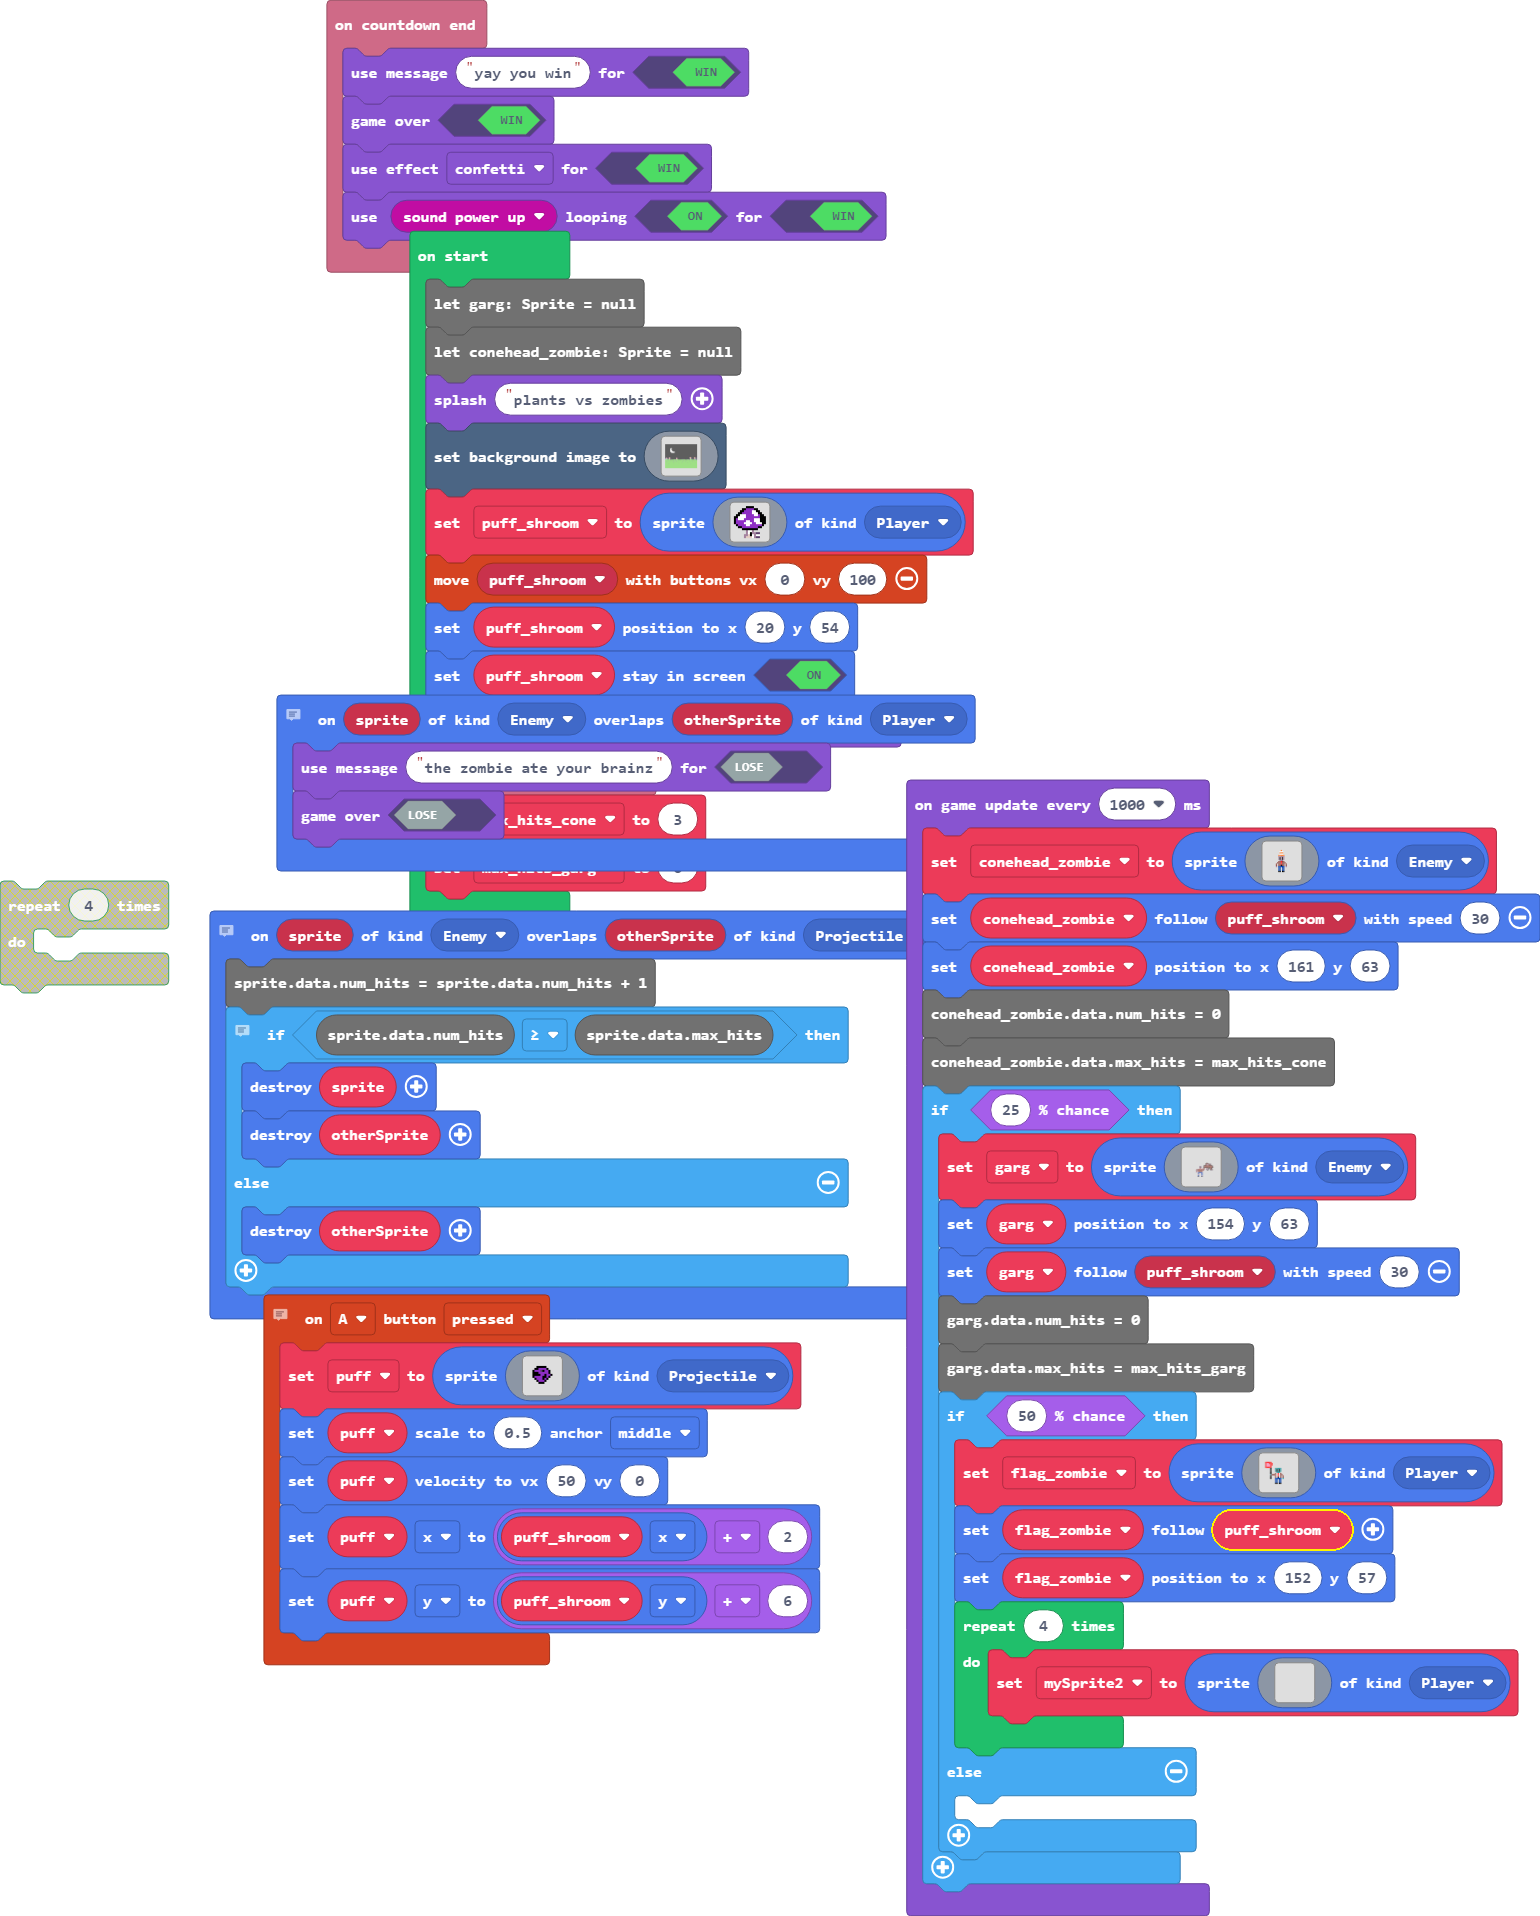
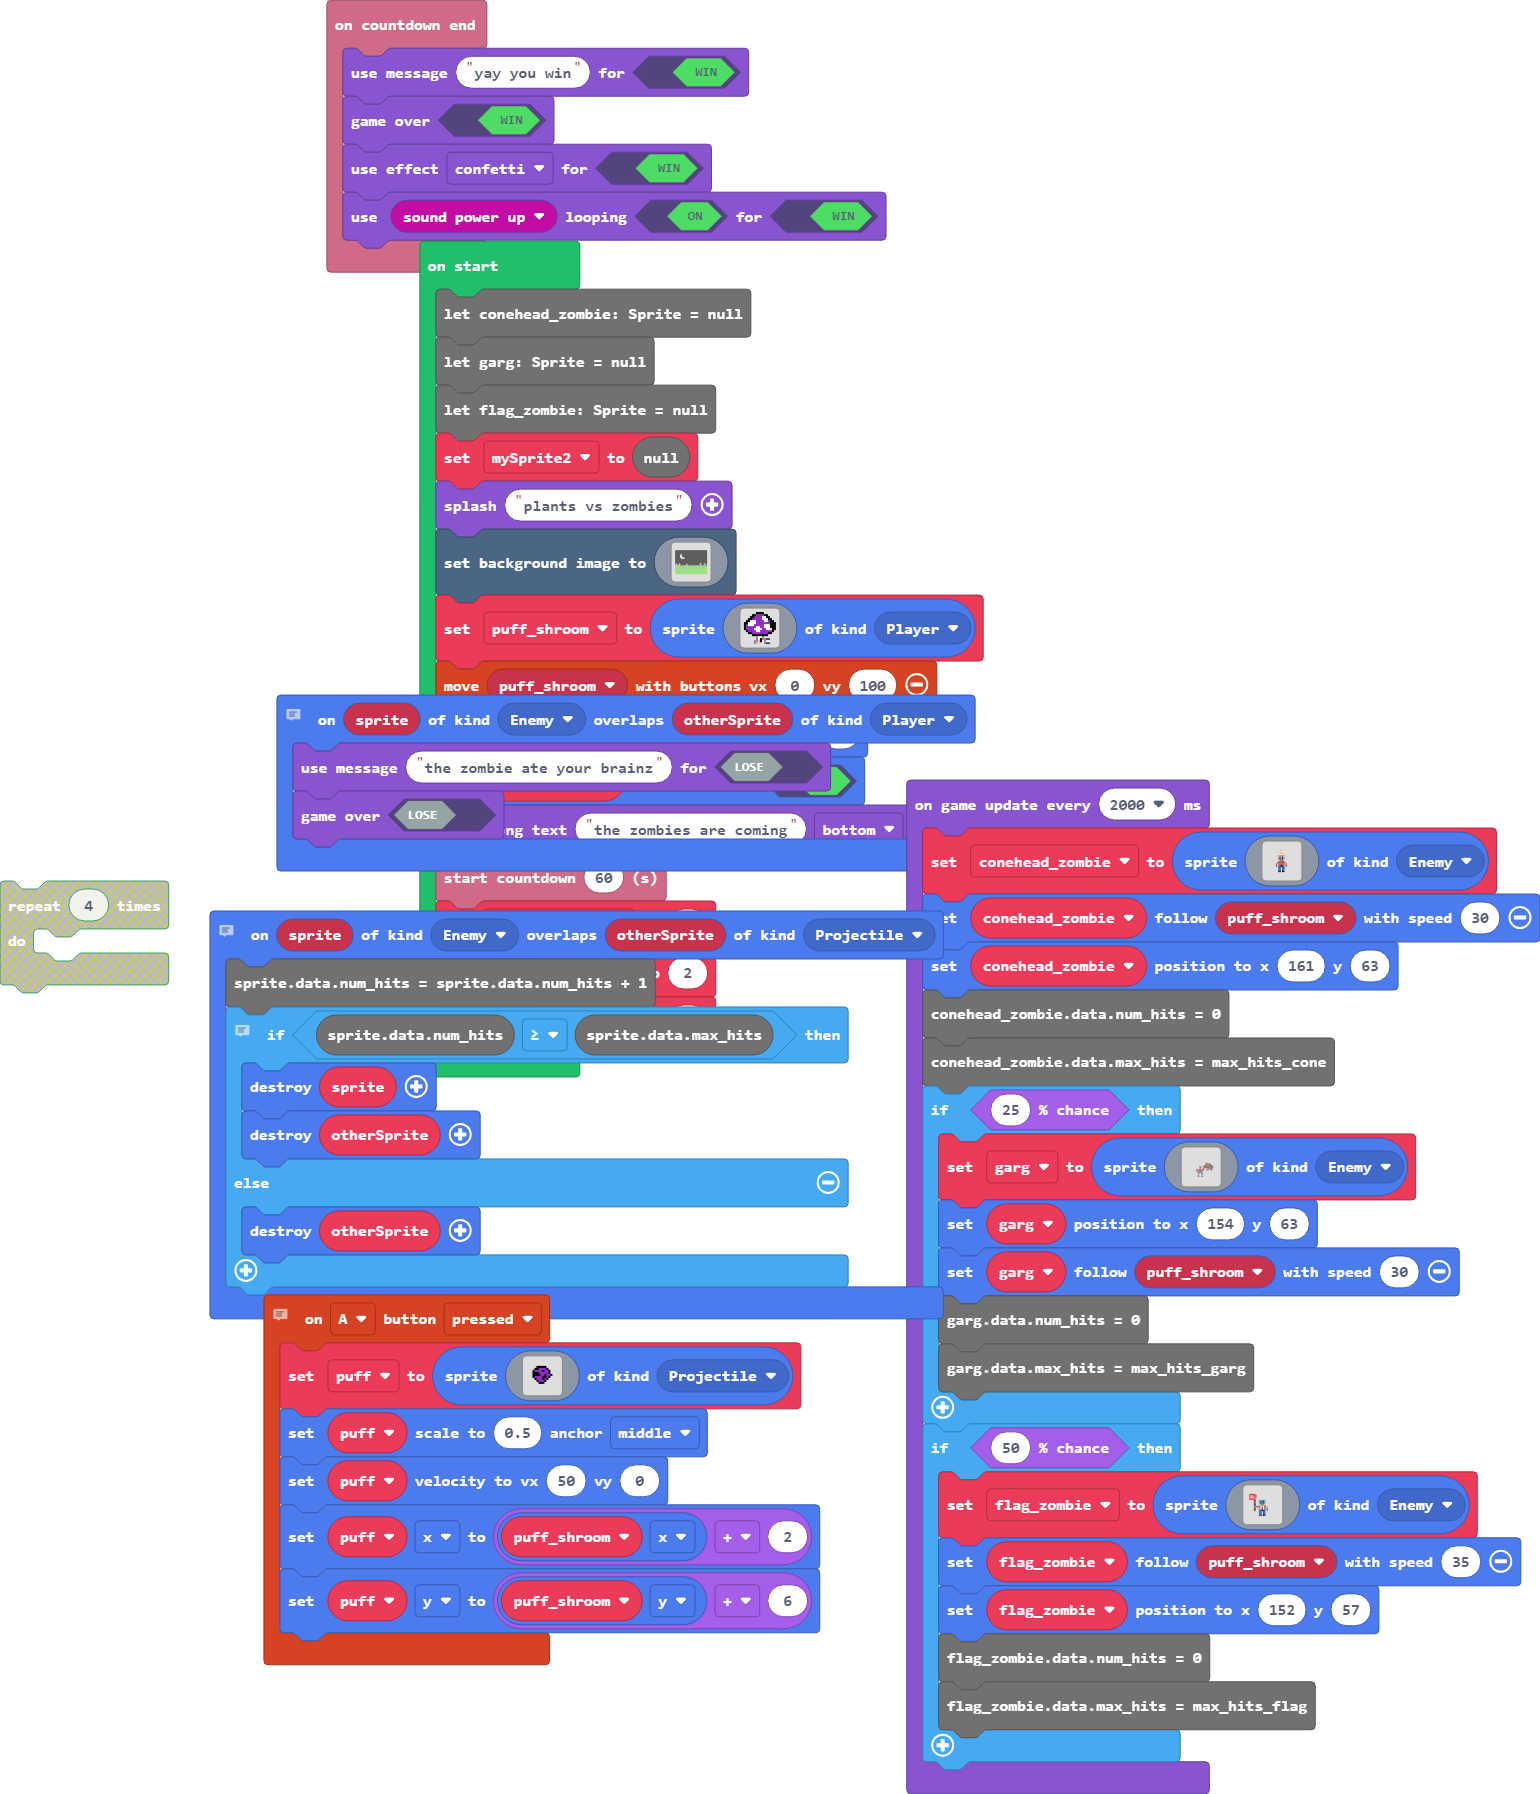
fixed flag z

diff --git a/main.ts b/main.ts
@@ -45,12 +45,12 @@ sprites.onOverlap(SpriteKind.Enemy, SpriteKind.Player, function (sprite, otherSp
     game.setGameOverMessage(false, "the zombie ate your brainz")
     game.gameOver(false)
 })
-let mySprite2: Sprite = null
-let flag_zombie: Sprite = null
 let puff: Sprite = null
 let puff_shroom: Sprite = null
-let garg: Sprite = null
 let conehead_zombie: Sprite = null
+let garg: Sprite = null
+let flag_zombie: Sprite = null
+let mySprite2 = null
 game.splash("plants vs zombies")
 scene.setBackgroundImage(img`
     ffffffffffffffffffffffffffffffffffffffffffffffffffffffffffffffffffffffffffffffffffffffffffffffffffffffffffffffffffffffffffffffffffffffffffffffffffffffffffffffff
@@ -198,8 +198,9 @@ puff_shroom.setStayInScreen(true)
 game.showLongText("the zombies are coming", DialogLayout.Bottom)
 info.startCountdown(60)
 let max_hits_cone = 3
+let max_hits_flag = 2
 let max_hits_garg = 6
-game.onUpdateInterval(1000, function () {
+game.onUpdateInterval(2000, function () {
     conehead_zombie = sprites.create(img`
         ..........................
         ..........................
@@ -339,32 +340,12 @@ if (Math.percentChance(25)) {
         garg.follow(puff_shroom, 30)
         garg.data.num_hits = 0
 garg.data.max_hits = max_hits_garg
-if (Math.percentChance(50)) {
-            flag_zombie = sprites.create(assets.image`myImage`, SpriteKind.Player)
-            flag_zombie.follow(puff_shroom)
-            flag_zombie.setPosition(152, 57)
-            for (let index = 0; index < 4; index++) {
-                mySprite2 = sprites.create(img`
-                    . . . . . . . . . . . . . . . . 
-                    . . . . . . . . . . . . . . . . 
-                    . . . . . . . . . . . . . . . . 
-                    . . . . . . . . . . . . . . . . 
-                    . . . . . . . . . . . . . . . . 
-                    . . . . . . . . . . . . . . . . 
-                    . . . . . . . . . . . . . . . . 
-                    . . . . . . . . . . . . . . . . 
-                    . . . . . . . . . . . . . . . . 
-                    . . . . . . . . . . . . . . . . 
-                    . . . . . . . . . . . . . . . . 
-                    . . . . . . . . . . . . . . . . 
-                    . . . . . . . . . . . . . . . . 
-                    . . . . . . . . . . . . . . . . 
-                    . . . . . . . . . . . . . . . . 
-                    . . . . . . . . . . . . . . . . 
-                    `, SpriteKind.Player)
-            }
-        } else {
-        	
-        }
+    }
+    if (Math.percentChance(50)) {
+        flag_zombie = sprites.create(assets.image`myImage`, SpriteKind.Enemy)
+        flag_zombie.follow(puff_shroom, 35)
+        flag_zombie.setPosition(152, 57)
+        flag_zombie.data.num_hits = 0
+flag_zombie.data.max_hits = max_hits_flag
     }
 })
